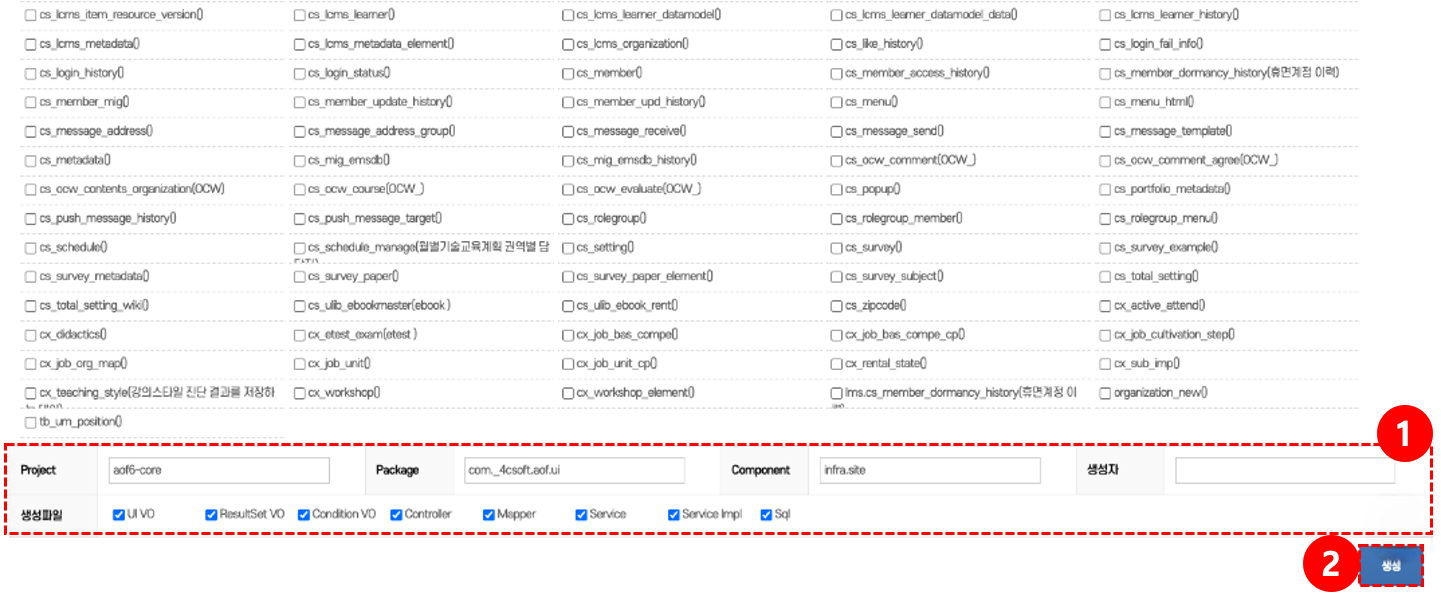
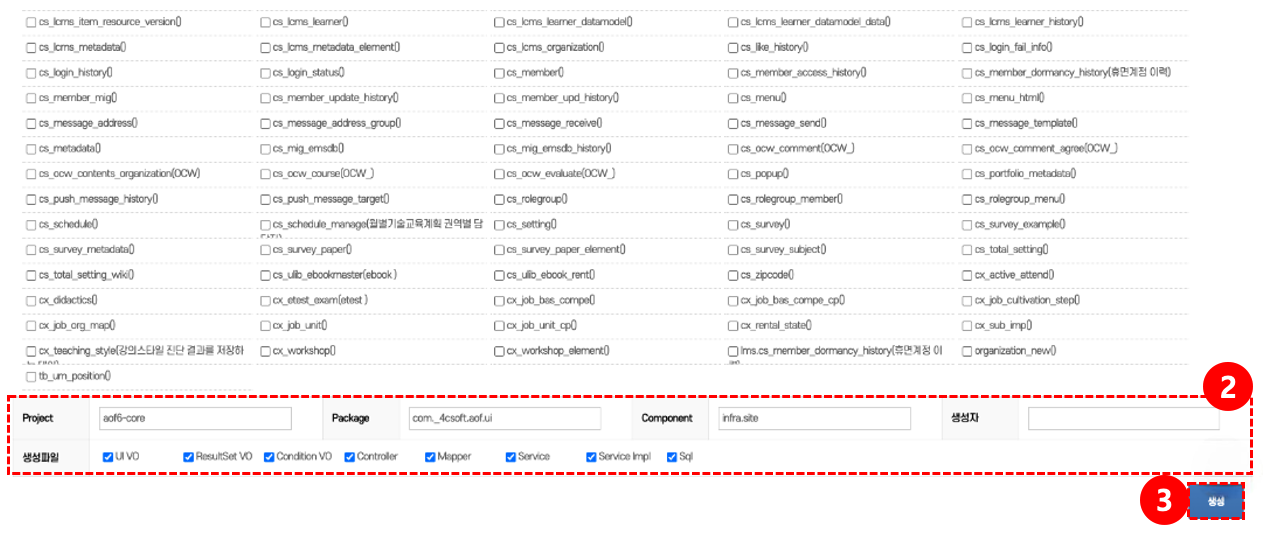
가이드

diff --git a/quartz/components/HamburgerMenu.tsx b/quartz/components/HamburgerMenu.tsx
@@ -43,17 +43,17 @@ export default ((opts?: Partial<Options>) => {
               
               <div class="hamburger-menu-content">
                 <ul class="hamburger-menu-list">
-                  <li><a href="/manual2/" class="hamburger-menu-item">홈</a></li>
-                  <li><a href="/manual2/1.-회원" class="hamburger-menu-item">회원</a></li>
-                  <li><a href="/manual2/2.-과정" class="hamburger-menu-item">과정</a></li>
-                  <li><a href="/manual2/3.-콘텐츠" class="hamburger-menu-item">콘텐츠</a></li>
-                  <li><a href="/manual2/4.-사이트" class="hamburger-menu-item">사이트</a></li>
-                  <li><a href="/manual2/5.-서비스" class="hamburger-menu-item">서비스</a></li>
-                  <li><a href="/manual2/6.-시설" class="hamburger-menu-item">시설</a></li>
-                  <li><a href="/manual2/7.-주문결제" class="hamburger-menu-item">주문결제</a></li>
-                  <li><a href="/manual2/8.-통계" class="hamburger-menu-item">통계</a></li>
-                  <li><a href="/manual2/9.-설정" class="hamburger-menu-item">설정</a></li>
-                  <li><a href="/manual2/10.시스템" class="hamburger-menu-item">시스템</a></li>
+                  <li><a href="/manual/" class="hamburger-menu-item">홈</a></li>
+                  <li><a href="/manual/1.-회원" class="hamburger-menu-item">회원</a></li>
+                  <li><a href="/manual/2.-과정" class="hamburger-menu-item">과정</a></li>
+                  <li><a href="/manual/3.-콘텐츠" class="hamburger-menu-item">콘텐츠</a></li>
+                  <li><a href="/manual/4.-사이트" class="hamburger-menu-item">사이트</a></li>
+                  <li><a href="/manual/5.-서비스" class="hamburger-menu-item">서비스</a></li>
+                  <li><a href="/manual/6.-시설" class="hamburger-menu-item">시설</a></li>
+                  <li><a href="/manual/7.-주문결제" class="hamburger-menu-item">주문결제</a></li>
+                  <li><a href="/manual/8.-통계" class="hamburger-menu-item">통계</a></li>
+                  <li><a href="/manual/9.-설정" class="hamburger-menu-item">설정</a></li>
+                  <li><a href="/manual/10.시스템" class="hamburger-menu-item">시스템</a></li>
                 </ul>
               </div>
             </nav>

diff --git a/content/index.md b/content/index.md
@@ -20,6 +20,55 @@ build: 2025.09.19
         통합 교육시스템
       </p>
     </div>
+    <div class="lx2-hero__cards">
+      <a class="lx2-card edu" href="https://www.4csoft.com/" target="_blank">
+        <span class="lx2-card__icon" aria-hidden="true">
+          <svg viewBox="0 0 24 24" width="28" height="28" xmlns="http://www.w3.org/2000/svg">
+		  <circle cx="12" cy="12" r="10" fill="none" stroke="#2D9CDB" stroke-width="2"/>
+		  <text x="12" y="12" text-anchor="middle" dominant-baseline="middle" font-size="8" font-family="Arial, sans-serif" fill="#2D9CDB">4C</text>
+		</svg>
+        </span>
+        <span class="lx2-card__text"><b>포씨소프트<br>공식 홈페이지</b></span>
+      </a>
+      <a class="lx2-card tech" href="https://lx2.kr/common/greeting.do" target="_blank">
+        <span class="lx2-card__icon" aria-hidden="true">
+          <svg viewBox="0 0 24 24" width="28" height="28" xmlns="http://www.w3.org/2000/svg">
+            <circle cx="12" cy="12" r="10" fill="#9B51E0"/>
+            <polygon points="10,8 16,12 10,16" fill="#fff"/>
+          </svg>
+        </span>
+        <span class="lx2-card__text"><b>LX2<br>체험하기</b></span>
+      </a>
+      <a class="lx2-card eff" href="https://www.instagram.com/4csoft_lx2/" target="_blank">
+<span class="lx2-card__icon" aria-hidden="true">  
+<svg role="img" viewBox="0 0 24 24" width="28" height="28" xmlns="http://www.w3.org/2000/svg" border-radius="18">  
+<title>Instagram</title>  
+<defs>  
+<linearGradient id="instaGradient" x1="0%" y1="0%" x2="100%" y2="100%">  
+<stop offset="0%" stop-color="#F58529"/>  
+<stop offset="30%" stop-color="#DD2A7B"/>  
+<stop offset="60%" stop-color="#8134AF"/>  
+<stop offset="100%" stop-color="#515BD4"/>  
+</linearGradient>  
+</defs>  
+<path fill="url(#instaGradient)" d="M7.5 2h9A5.5 5.5 0 0 1 22 7.5v9A5.5 5.5 0 0 1 16.5 22h-9A5.5 5.5 0 0 1 2 16.5v-9A5.5 5.5 0 0 1 7.5 2zm0 2A3.5 3.5 0 0 0 4 7.5v9A3.5 3.5 0 0 0 7.5 20h9a3.5 3.5 0 0 0 3.5-3.5v-9A3.5 3.5 0 0 0 16.5 4h-9z"/>  
+<path fill="url(#instaGradient)" d="M12 7a5 5 0 1 1 0 10 5 5 0 0 1 0-10zm0 2a3 3 0 1 0 0 6 3 3 0 0 0 0-6z"/>  
+<circle cx="17.5" cy="6.5" r="1.5" fill="url(#instaGradient)"/>  
+</svg>  
+</span>  
+<span class="lx2-card__text"><b>LX2 공식<br>인스타그램</b></span>  
+</a>
+      <a class="lx2-card sec" href="https://blog.naver.com/lx2-4cosft" target="_blank">
+        <span class="lx2-card__icon" aria-hidden="true">
+        <svg role="img" viewBox="0 0 24 24" width="28" height="28" xmlns="http://www.w3.org/2000/svg">
+            <title>Naver</title>
+            <path d="M3 3h5.5l4.5 7V3H21v18h-5.5l-4.5-7v7H3z" fill="#03C75A"/>
+          </svg>
+        </span>
+        <span class="lx2-card__text"><b>LX2 기능<br>가이드 블로그</b></span>
+      </a>
+    </div>
+  </div>
 <div class="lx2-pdf-card">
     <a href="./_etc/LX2_admin_manual.pdf" target="_blank" class="pdf-link">
       <span class="pdf-icon">
@@ -34,7 +83,9 @@ build: 2025.09.19
       <span class="pdf-version">v2.0.0</span>
     </a>
   </div>
-  <div class="lx2-hero__copyright">2025. 09. 22
+  <div class="lx2-hero__copyright">
+    본 저작물의 모든 권리는 ㈜포씨소프트(4CSoft)에 있습니다.<br>
+    © 4CSoft. All Rights Reserved. <br><br>2025. 09. 22
   </div>
 </section>
 </div>

diff --git a/content/_etc/md/시스템/메뉴-generator.md b/content/_etc/md/시스템/메뉴-generator.md
@@ -21,11 +21,20 @@
 
 > [!note]- 기능설명  
 > #### 1. 검색  
-> - Database UserId를 입력하여 데이터를 검색한다.  
-> - 입력된 값에 해당하는 데이터가 없을 경우 "데이터가 없습니다" 메시지가 표시된다.  
+> - 데이터베이스 사용자 ID를 입력해 연결된 테이블 목록을 조회할 수 있다.
+> - 검색 버튼을 클릭하면 해당 UserID에 속한 모든 테이블이 화면에 표시된다.  
+> 
+> #### 2. 프로젝트 설정
+> - Project에는 시스템 구분명을, Package에는 소스 경로를, Component에는 기능 단위를 입력한다.
+> - 생성자 입력란에는 담당자 이름을 입력하며, 생성할 파일 유형을 선택할 수 있다.
+> 
+> #### 3. 생성
+> - 선택한 테이블과 입력된 설정 정보를 기반으로 자동으로 코드 파일을 생성한다.
+> - 생성 버튼을 클릭하면 지정한 경로와 패키지 구조에 맞춰 코드가 자동 생성된다.
 
 ---
 
 > [!tip]- 사용방법  
-> - **검색**: 입력란에 **Database UserId**를 입력한 뒤 **검색 버튼 ①** 클릭 → 해당 데이터 조회.  
-> - **조회 실패**: 입력한 값과 일치하는 데이터가 없을 경우 "데이터가 없습니다" 문구 확인.  
+> - **Database UserID 입력**: 상단의 **입력란①**에 DB 사용자 ID를 입력 →검색 버튼을 클릭 →해당 계정의 테이블 목록이 표시된다.
+> - **프로젝트 설정**: **하단 영역②**에서 생성자 정보를 입력 →생성할 파일 유형을 체크한다.
+> - **코드 생성**: 모든 설정을 완료 후 → **생성 버튼③**을 클릭 → 선택한 테이블 기준으로 코드 파일이 자동으로 생성된다.